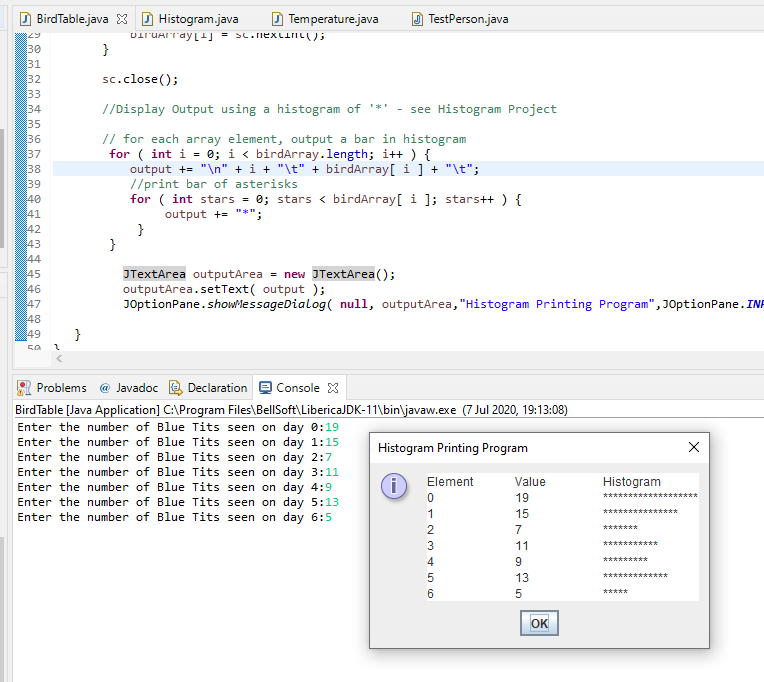
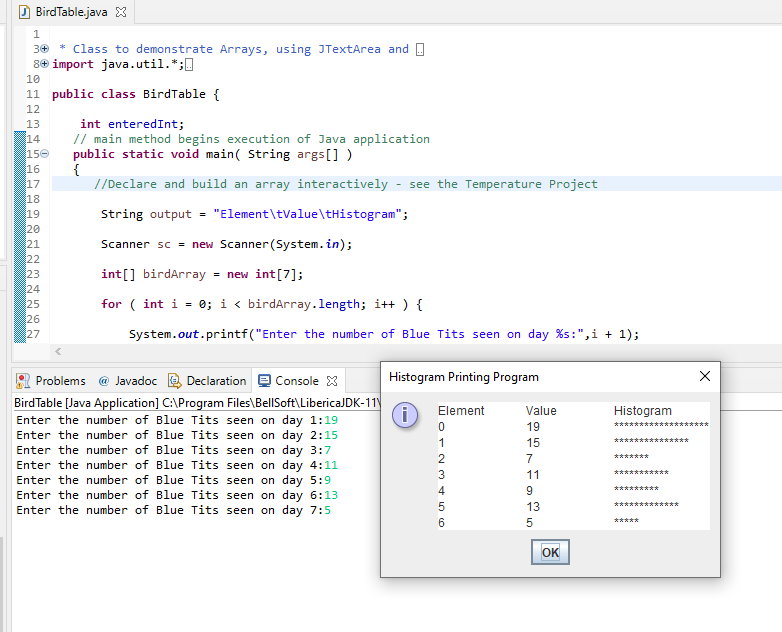
Upload

Changed region(s): [[0.0, 0.0, 1.0, 0.962], [0.5419, 0.0, 0.6623, 0.0601], [0.1204, 0.481, 0.1505, 0.5111]]

diff --git a/Week2/Lab3/Exercise 1/BirdTable.java b/Week2/Lab3/Exercise 1/BirdTable.java
@@ -24,7 +24,7 @@ public class BirdTable {
       
 	   for ( int i = 0; i < birdArray.length; i++ ) {
 		   
-		   System.out.printf("Enter the number of Blue Tits seen on day %s:",i);
+		   System.out.printf("Enter the number of Blue Tits seen on day %s:",i + 1);
 		   
 		   birdArray[i] = sc.nextInt();
 	   }
